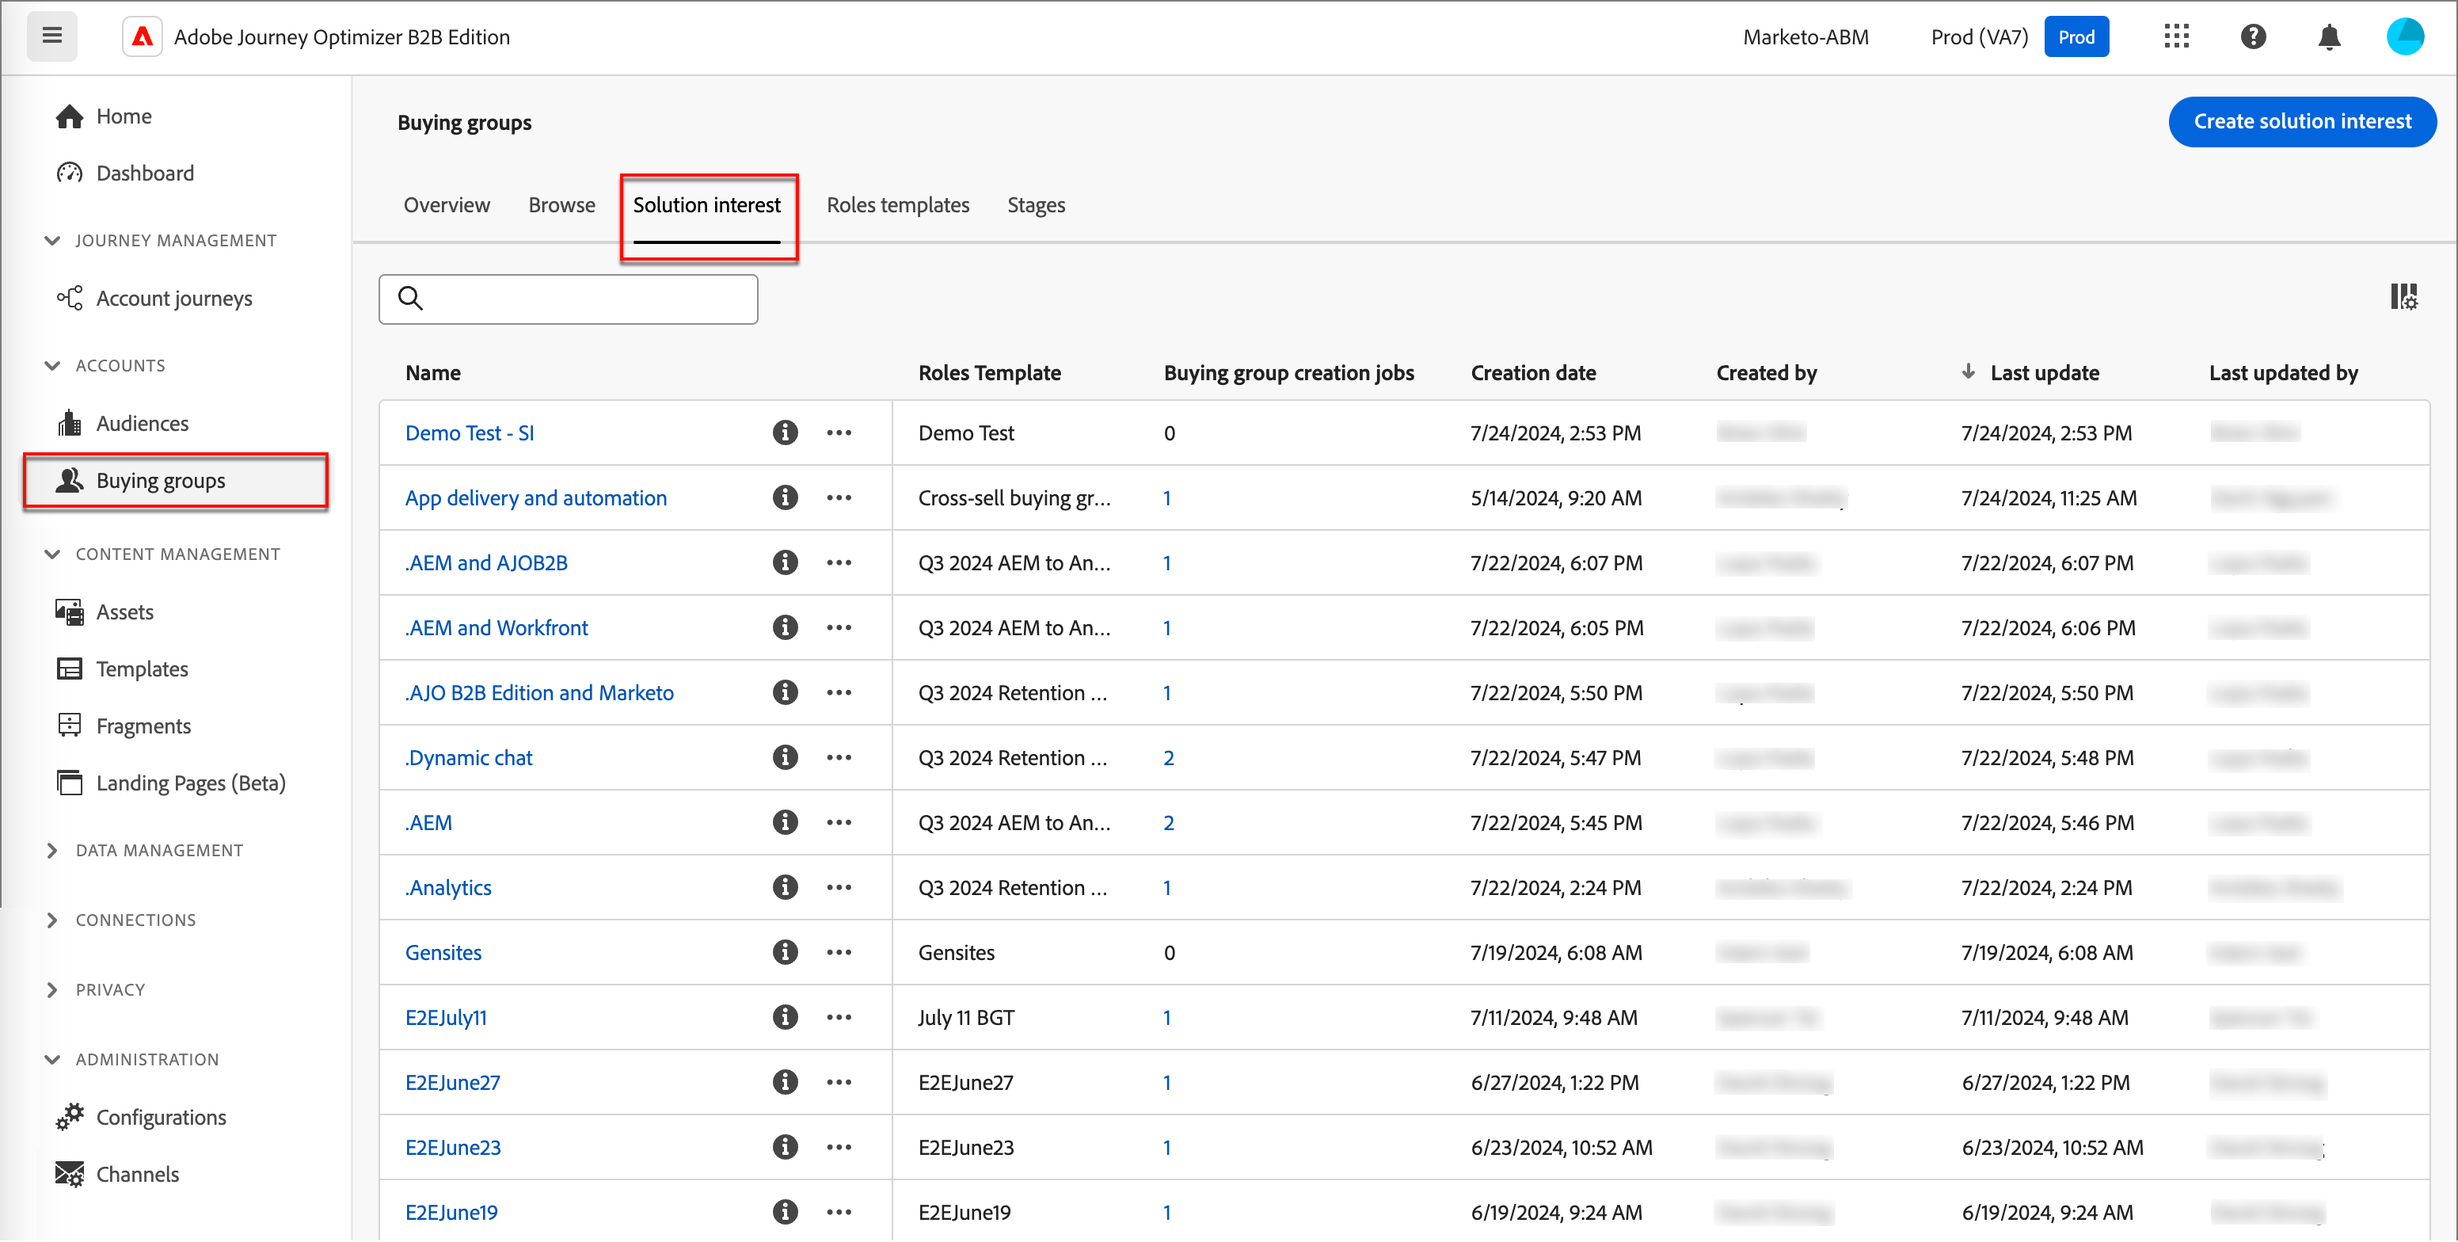
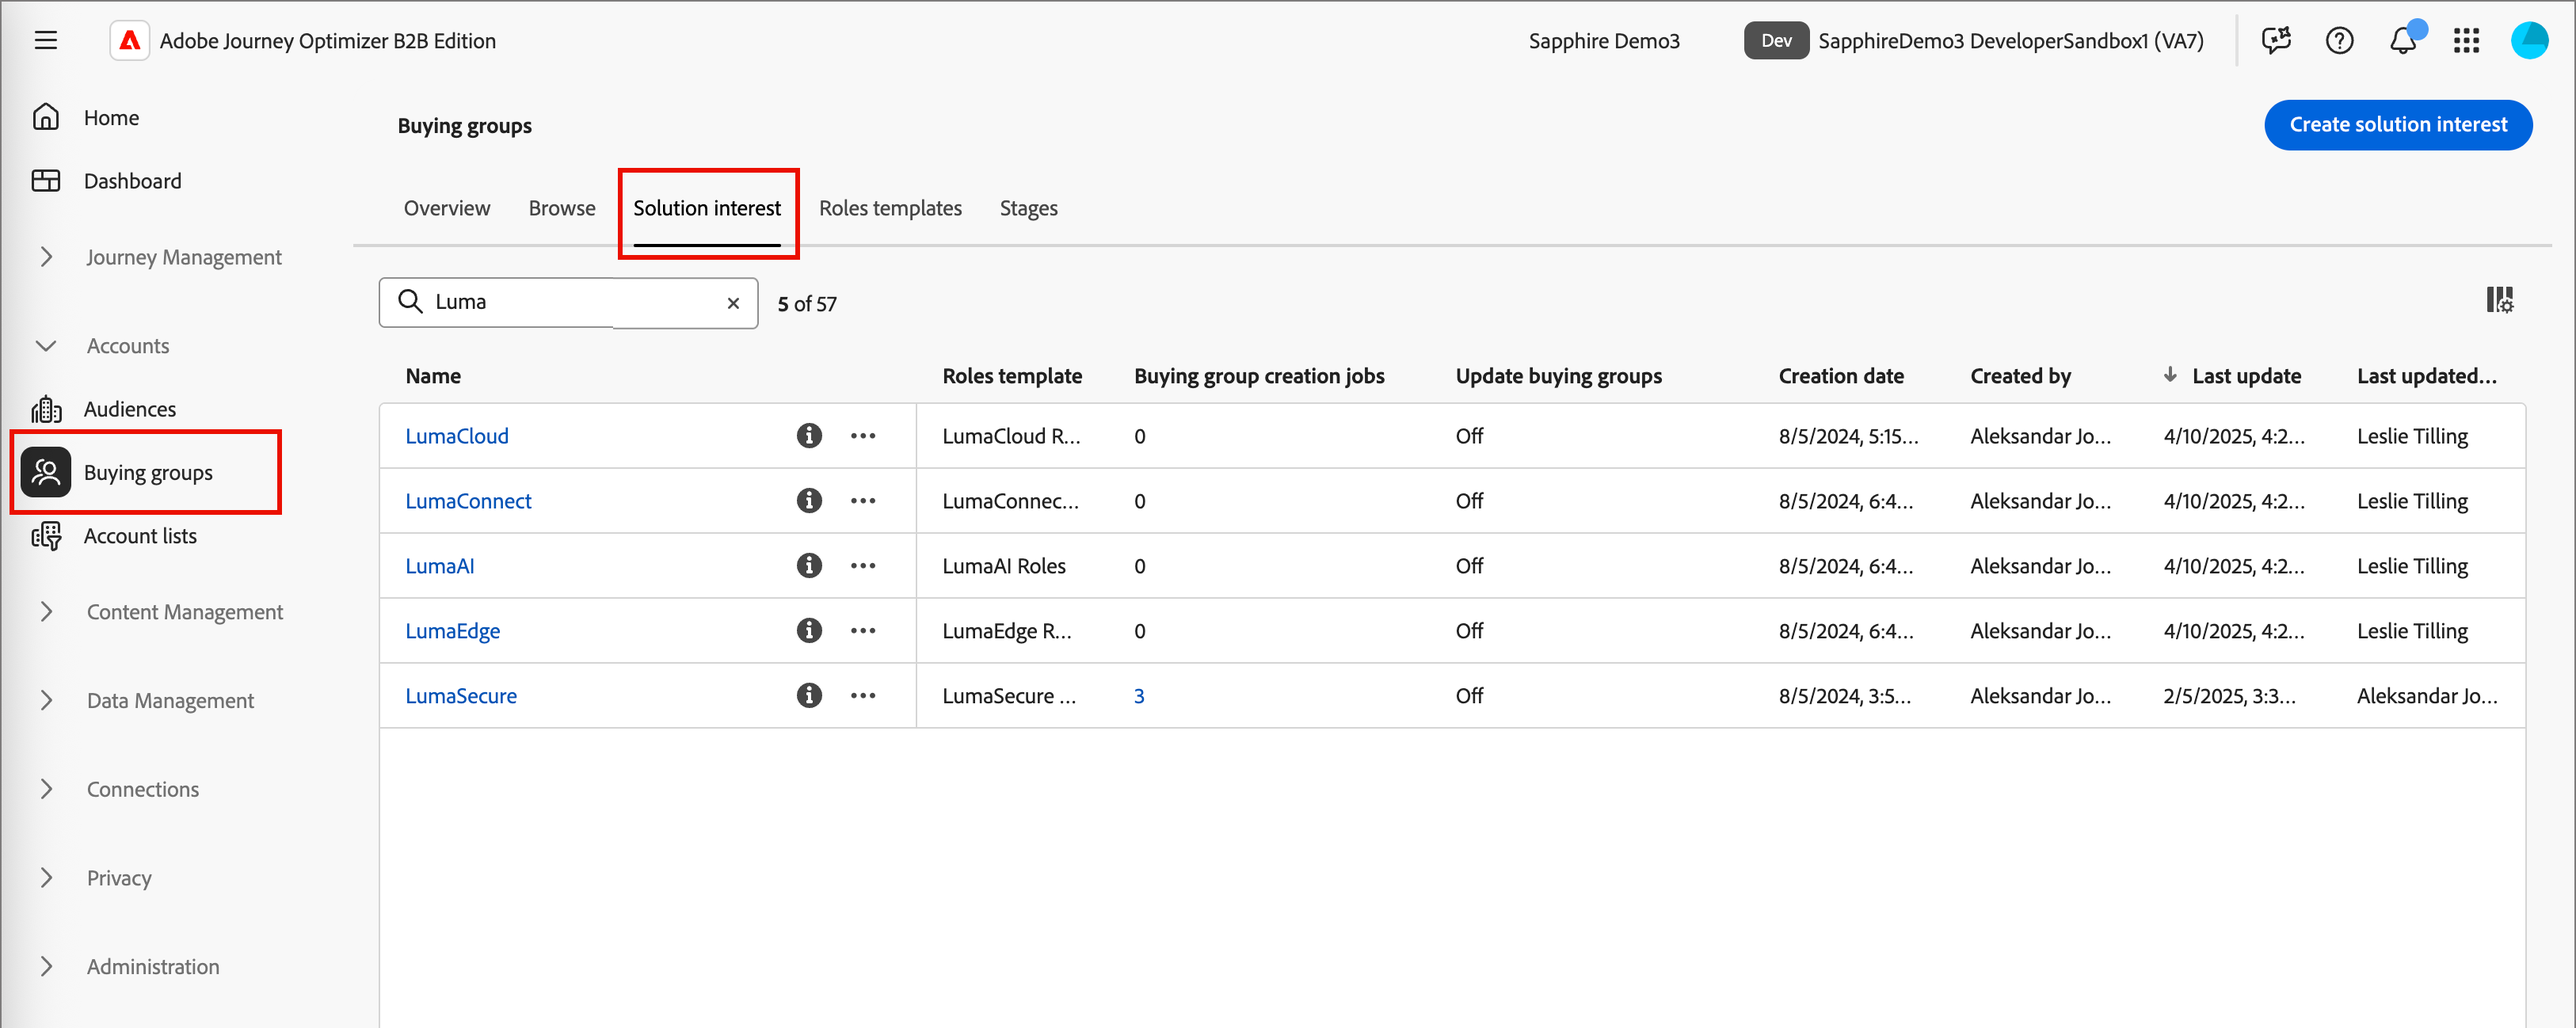
SPHR-16181, solution interest inventory list display count

diff --git a/help/user/buying-groups/solution-interests.md b/help/user/buying-groups/solution-interests.md
@@ -17,11 +17,13 @@ Before you create buying groups, you should know what you are selling and who yo
 
 1. In the _[!UICONTROL Buying Groups]_ page, select the **[!UICONTROL Solution interest]** tab.
 
+   The tab provides an inventory list of all existing solution interests. It displays the following information in column format: _[!UICONTROL Name]_, _[!UICONTROL Roles template]_, _[!UICONTROL Buying group creation jobs]_, _[!UICONTROL Update buying groups]_, _[!UICONTROL Creation date]_, _[!UICONTROL Created by]_, _[!UICONTROL Last update]_, and _[!UICONTROL Last updated by]_,
+
+   The list is sorted by the _[!UICONTROL Last update]_ column by default. Click the column title in the header to toggle the sort between descending and ascending.
+
+   Enter text in the _Search_ tool at the top of the list to filter the displayed list by name.
+
    ![Solution Interest tab](assets/solution-interest-tab.png){width="700" zoomable="yes"}
-
-   The tab provides an inventory list of all existing solution interests. It displays the following information in column format: _[!UICONTROL Name]_, _[!UICONTROL Roles template]_, _[!UICONTROL Buying group creation jobs]_, _[!UICONTROL Last updated on]_, _[!UICONTROL Updated by]_, _[!UICONTROL Created on]_, and _[!UICONTROL Created by]_
-
-   The list is sorted by the _[!UICONTROL Last updated on]_ column by default. Click the column title in the header to toggle the sort between descending and ascending.
    
 ## View and delete buying group jobs
 
